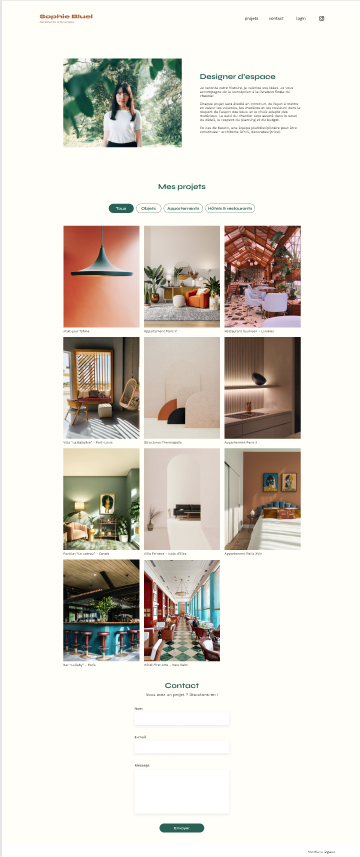
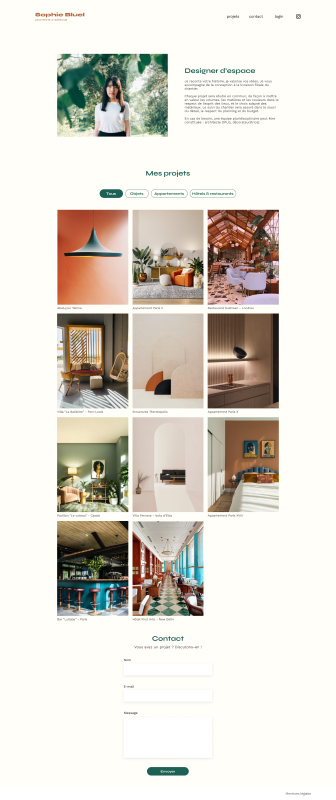
amelioration du style

diff --git a/src/components/Data/DataProjects.js b/src/components/Data/DataProjects.js
@@ -4,7 +4,6 @@ export const DataProjects = [
     title: 'Booki',
     image: '../booki.png',
     imageCarousel: [
-      '../booki.png',
       '../booki1.png',
       '../booki2.png',
     ],
@@ -23,11 +22,10 @@ export const DataProjects = [
     title: 'Sophie Bluel',
     image: '../sophie-bluel.png',
     imageCarousel: [
-      '../sophie-bluel.png',
-      '../sophie4.png',
       '../sophie1.png',
       '../sophie2.png',
       '../sophie3.png',
+      '../sophie4.png',
     ],
     description: 'Projet 2 - Formation Développeur Web OpenClassrooms',
     objectif: "L'objectif de ce projet était de créer une page web dynamique avec JavaScript en manipulant les éléments du DOM, en récupérant les données utilisateurs dans le JavaScript via des formulaires et en gérant les événements utilisateurs",
@@ -42,10 +40,11 @@ export const DataProjects = [
   {
     id: 3,
     title: 'Nina Carducci',
-    image: '../ninaCarducci.png',
+    image: '../nina.jpg',
     imageCarousel: [
-      '../booki.png',
-      '../SophieBluel.png',
+      '../nina1.png',
+      '../nina2.png',
+      '../nina3.png',
     ],
     description:
       'Projet 3 - Formation Développeur Web OpenClassrooms',
@@ -65,8 +64,10 @@ export const DataProjects = [
     title: 'Kasa',
     image: '../kasa.png',
     imageCarousel: [
-      '../booki.png',
-      '../SophieBluel.png',
+      '../kasa1.png',
+      '../kasa2.png',
+      '../kasa3.png',
+      '../kasa4.png',
     ],
     description:
       'Projet 4 - Formation Développeur Web OpenClassrooms',
@@ -84,8 +85,12 @@ export const DataProjects = [
     title: 'Mon Vieux Grimoire',
     image: '../monVieuxGrimoire.png',
     imageCarousel: [
-      '../booki.png',
-      '../SophieBluel.png',
+      '../MVG1.png',
+      '../MVG2.png',
+      '../MVG3.png',
+      '../MVG4.png',
+      '../MVG5.png',
+      '../MVG6.png',
     ],
     description:
       'Projet 5 - Formation Développeur Web OpenClassrooms',

diff --git a/src/components/Data/DataSkills.js b/src/components/Data/DataSkills.js
@@ -1,9 +1,12 @@
-import { FaReact, FaHtml5, FaCss3, FaJs, FaNodeJs, FaDatabase, FaServer, FaCog, FaArrowUp } from 'react-icons/fa';
-
 export const DataSkills = [
   {
     id: 1,
-    icon: [<FaHtml5 />, < FaCss3 />],
+    title: 'Intégration Web',
+    icon: [
+      "../htmlIcon.png",
+      "../css.png",
+      "../sassIcon.png",
+    ],
     name: 'HTML, CSS, SASS',
     description: [
       "Intégrer du contenu conformément à une maquette",
@@ -13,7 +16,11 @@ export const DataSkills = [
   },
   {
     id: 2,
-    icon: [<FaReact />, < FaJs />],
+    title: 'Developpement FrontEnd',
+    icon:[
+      "../js.png",
+      "../React-icon.svg.png",
+    ],
     name: 'Javscript, React',
     description:
       [
@@ -26,7 +33,11 @@ export const DataSkills = [
   },
   {
     id: 3,
-    icon: [<FaNodeJs />, <FaServer />, < FaDatabase />],
+    title: 'Developpement BackEnd',
+    icon: [
+      "../NodeIcon.png",
+      "../mongoDB.png",
+    ],
     name: 'NodeJS, ExpressJS, MongoDB',
     description:
       [
@@ -39,7 +50,11 @@ export const DataSkills = [
   },
   {
     id: 4,
-    icon: [<FaCog />, <FaArrowUp />],
+    title: 'Optimisation',
+    icon: [
+      "../SEO.png",
+      "../optimisationIcon.png",
+    ],
     name: 'SEO, Optimisation',
     description:
       [

diff --git a/src/components/SkillModal/SkillModal.scss b/src/components/SkillModal/SkillModal.scss
@@ -2,17 +2,30 @@
 
 .skillCard {
   @include display-style;
+  flex-direction: column;
   width: 40%;
-  background: $color-bg;
+  background: linear-gradient(to top, #239eba, transparent);
   color: $color-bg;
   justify-content: center;
   align-items: center;
   gap: 0 20px;
   border-radius: 10px;
+  cursor: pointer;
   h3 {
-    color: $color-bg;
+    color: $underline-color;
     cursor: pointer;
     font-weight: 600;
+  }
+  .iconContainer {
+    @include display-style;
+    align-items: center;
+    gap: 10px;
+    .iconSkill {
+      height: 30px;
+      &:hover {
+        transform: scale(1.2);
+      }
+    }
   }
   .modal {
     display: flex;

diff --git a/src/components/Skills/Skills.js b/src/components/Skills/Skills.js
@@ -9,10 +9,10 @@ const Skills = () => {
         <div className="skillsContainer">
             <h2>Mes Compétences</h2>
             <div className="skillsGallery">
-                    {DataSkills.map((skill) => (
-                        <SkillModal key={skill.id} icon={skill.icon} name={skill.name} description={skill.description} />
-                    ))}
-                </div>
+                {DataSkills.map((skill) => (
+                    <SkillModal key={skill.id} title={skill.title} icons={skill.icon} name={skill.name} description={skill.description} />
+                ))}
+            </div>
         </div>
     );
 };

diff --git a/src/pages/ProjectDetails/ProjectDetails.js b/src/pages/ProjectDetails/ProjectDetails.js
@@ -25,8 +25,7 @@ const ProjectDetails = () => {
                 <div className="infosContainer">
 
                     <div className='photoLinkContainer'>
-                        {/* <img src={project.image} alt="projet capture ecran" /> */}
-                        <CarouselProject images={project.imageCarousel} />
+                        <CarouselProject images={project.imageCarousel}/>
                         <div className='linkSite'>
                             {project.visitSite.trim() !== '' && (
                                 <a href={project.visitSite} target="_blank" rel="noopener noreferrer">

diff --git a/src/components/SkillModal/SkillModal.js b/src/components/SkillModal/SkillModal.js
@@ -20,8 +20,15 @@ const SkillModal = (props) => {
   };
 
   return (
-    <div className="skillCard">
-      <div className='iconSkill' onClick={toggleModal}>{props.icon}</div>
+    <div className="skillCard" onClick={toggleModal}>
+      <h3>{props.title}</h3>
+      <div className='iconContainer'>
+        {props.icons.map((icon, index) => (
+          <div key={index} >
+            <img src={icon} alt="icone Skill" className='iconSkill' />
+          </div>
+        ))}
+        </div>
       {modalOpen && (
         <div className="modal" onClick={outModal}>
           <div className="modalContent ">

diff --git a/src/pages/ProjectDetails/ProjectDetails.scss b/src/pages/ProjectDetails/ProjectDetails.scss
@@ -22,18 +22,23 @@
     @include display-style;
     align-items: center;
     width: 100%;
+    @include style-section;
+    gap: 30px;
     .photoLinkContainer {
       @include display-style;
       flex-direction: column;
       width: 100%;
       gap: 25px;
       align-items: center;
+      .carousel-root {
+        width: 400px;
+      }
       img {
         border: 1px solid $color-bg;
         border-radius: 5px;
         height: 400px;
         object-fit: cover;
-        width: 50%;
+        width: auto;
       }
     }
     .linkSite {

diff --git a/src/assets/style/index.scss b/src/assets/style/index.scss
@@ -34,6 +34,13 @@ body {
   display: flex;
 }
 
+@mixin style-section {
+  padding: 50px;
+  margin-bottom: 50px;
+  border-radius: 10px;
+  background-color: $color-bg;
+}
+
 p,
 h3,
 h1 {
@@ -55,12 +62,12 @@ a:visited {
 }
 
 @mixin style-h2 {
+  position: relative;
   margin-bottom: 40px;
   font-size: 2rem;
   font-weight: 600;
   cursor: context-menu;
   display: inline-block;
-  position: relative;
   text-shadow: -2px 1px 0 #e2e8ec;
   color: $underline-color;
   &:before {

diff --git a/src/components/Skills/Skills.scss b/src/components/Skills/Skills.scss
@@ -2,7 +2,7 @@
 
 /* Skills */
 .skillsContainer {
-  padding: 32px 0;
+  @include style-section;
   h2 {
     @include style-h2;
   }
@@ -11,16 +11,6 @@
     justify-content: center;
     flex-wrap: wrap;
     gap: 20px;
-      .iconSkill {
-        font-size: 15px;
-        cursor: pointer;
-        svg{
-          padding: 0;
-          margin: 10px;
-          @include style-icon;
-        }
-      }
- 
   }
 }
 

diff --git a/src/components/Carousel/Carousel.js b/src/components/Carousel/Carousel.js
@@ -13,7 +13,7 @@ const CarouselProject = (props) => {
             interval={3000}
         >
             {props.images.map((image, index) => (
-                <div key={index} className='carouselContainer'>
+                <div key={index} className='carouselContainer '>
                     <img src={image} alt="diapo images projet" />
                 </div>
             ))}

diff --git a/src/components/About/About.scss b/src/components/About/About.scss
@@ -2,7 +2,7 @@
 
 /* About */
 .aboutContainer {
-  padding: 50px 0;
+  @include style-section;
   h2 {
     @include style-h2;
     margin: 0;
@@ -18,6 +18,7 @@
         color: $color-text;
         &:hover {
           color: $underline-color;
+          border-bottom: 1px solid $underline-color;
         }
       }
       p {

diff --git a/src/components/Projects/Projects.scss b/src/components/Projects/Projects.scss
@@ -1,7 +1,7 @@
 @import "../../assets/style/index.scss";
 
 .projectsContainer {
-  padding: 2rem 0;
+  @include style-section;
   h2 {
     @include style-h2;
   }
